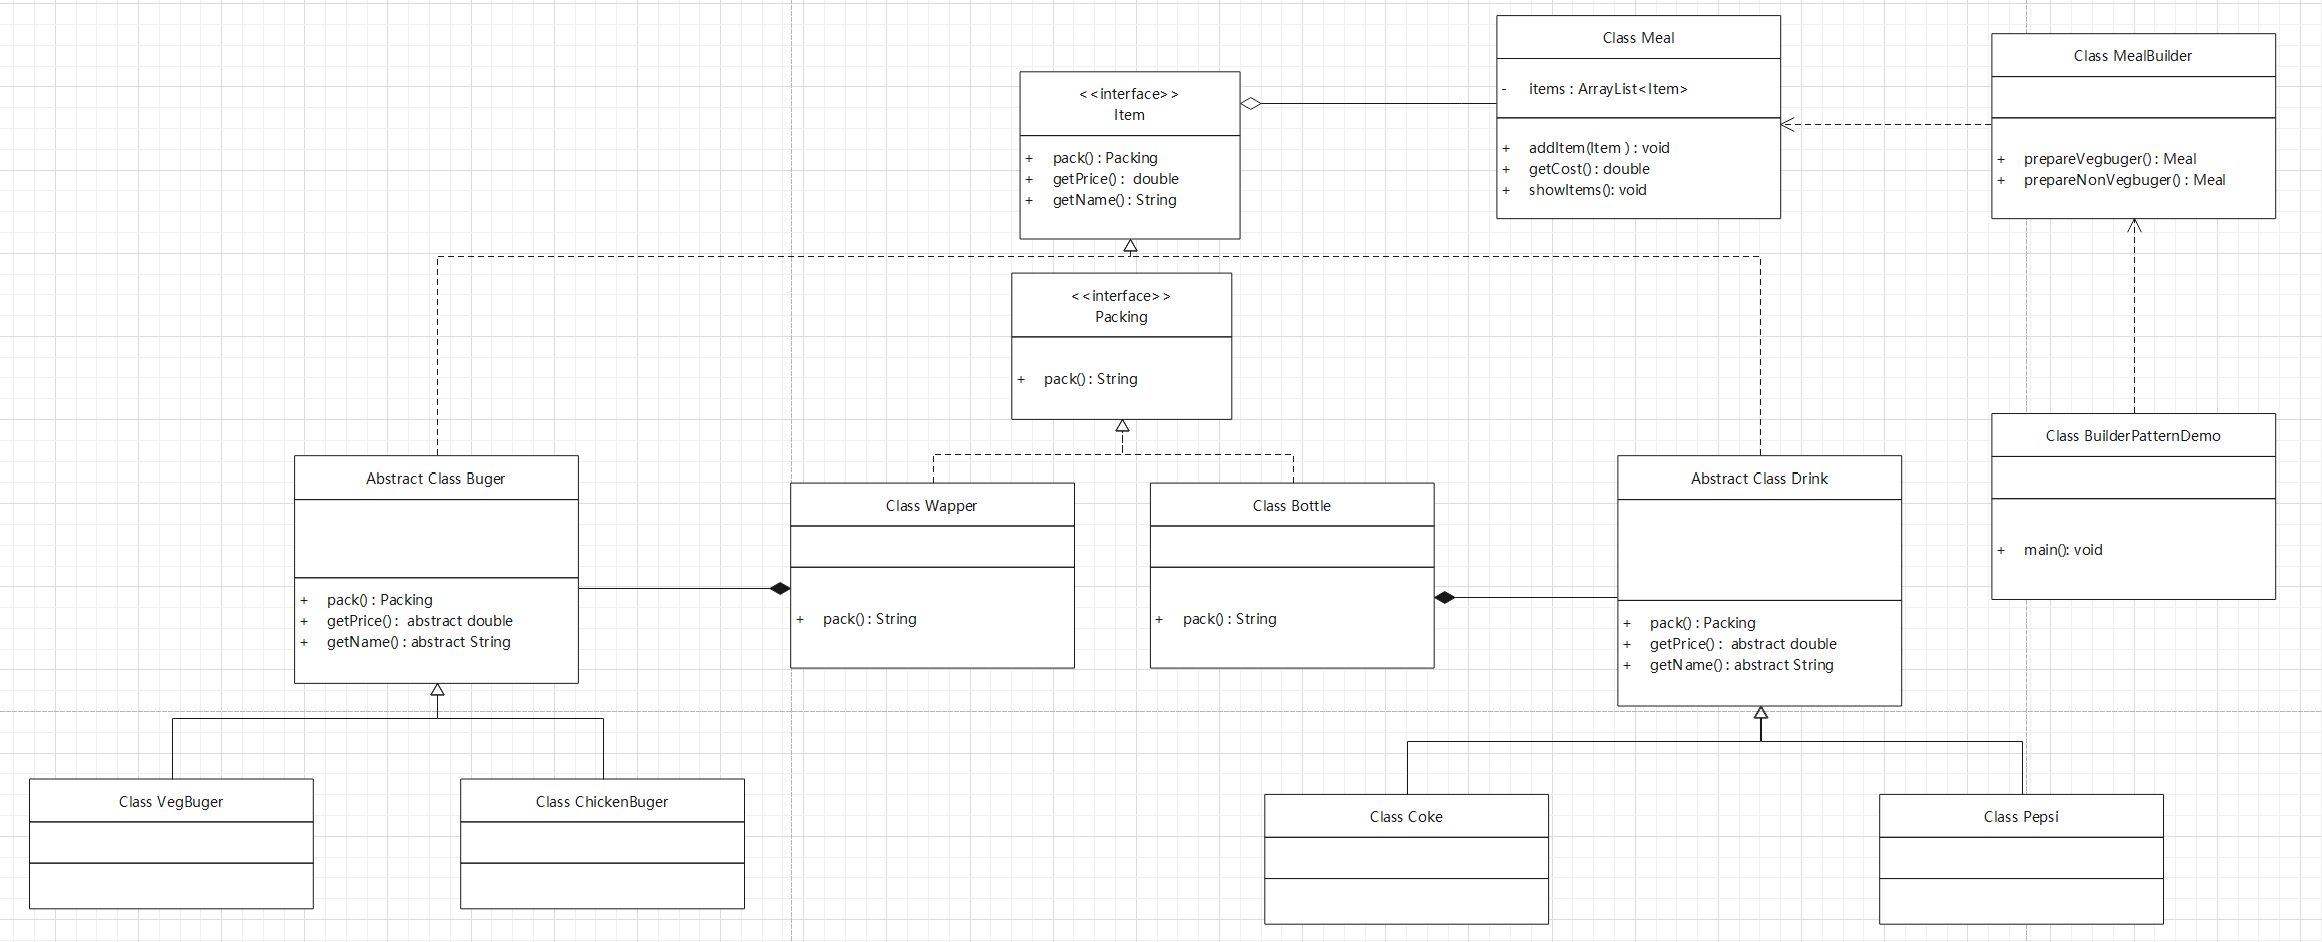
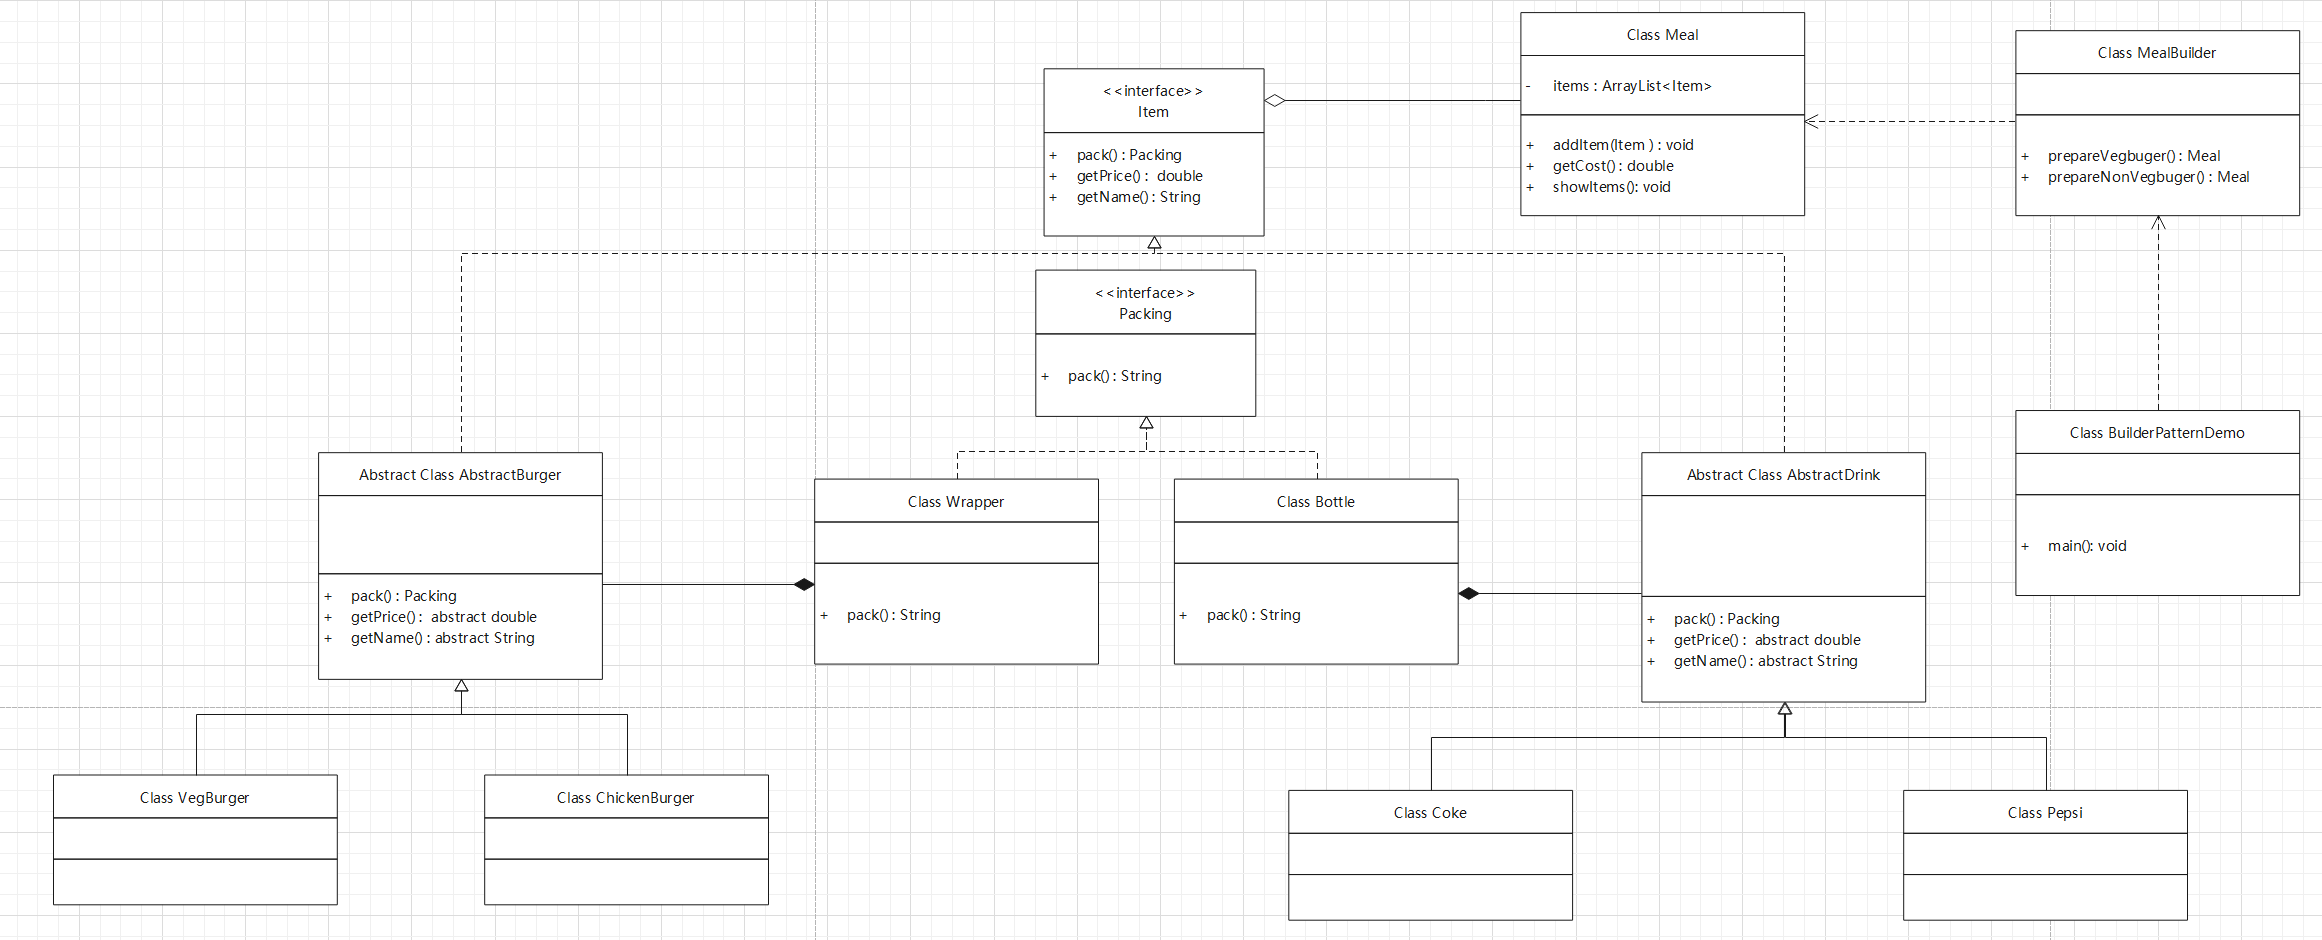
add Builder pattern

diff --git a/com.tucker.java.design.pattern/builder/MealBuilder.java b/com.tucker.java.design.pattern/builder/MealBuilder.java
@@ -1,0 +1,24 @@
+package builder;
+
+/**
+ * @author tonyc
+ */
+public class MealBuilder {
+    public Meal prepareVegBurger() {
+        Meal meal = new Meal();
+        VegBurger vegBurger = new VegBurger();
+        meal.addItems(vegBurger);
+        CokeCola cokeCola = new CokeCola();
+        meal.addItems(cokeCola);
+        return meal;
+    }
+
+    public Meal prepareChickenBurger() {
+        Meal meal = new Meal();
+        ChickenBurger chickenBurger = new ChickenBurger();
+        meal.addItems(chickenBurger);
+        Pepsi pepsi = new Pepsi();
+        meal.addItems(pepsi);
+        return meal;
+    }
+}

diff --git a/com.tucker.java.design.pattern/builder/Meal.java b/com.tucker.java.design.pattern/builder/Meal.java
@@ -1,0 +1,29 @@
+package builder;
+
+import java.util.ArrayList;
+
+/**
+ * @author tonyc
+ */
+public class Meal {
+
+    private ArrayList<Items> items = new ArrayList<Items>();
+
+    public void addItems(Items item) {
+        items.add(item);
+    }
+
+    public void showItems() {
+        for (Items item : items) {
+            System.out.println(item.getName());
+        }
+    }
+
+    public double getCost() {
+        double price = 0;
+        for (Items item : items) {
+            price += item.getPrice();
+        }
+        return price;
+    }
+}

diff --git a/com.tucker.java.design.pattern/builder/BuilderPatternDemo.java b/com.tucker.java.design.pattern/builder/BuilderPatternDemo.java
@@ -1,0 +1,16 @@
+package builder;
+
+/**
+ * @author tonyc
+ */
+public class BuilderPatternDemo {
+    public static void main(String[] args) {
+        MealBuilder builder = new MealBuilder();
+        Meal mealVegBurger = builder.prepareVegBurger();
+        Meal mealChickenBurger = builder.prepareChickenBurger();
+        mealVegBurger.showItems();
+        System.out.println(mealVegBurger.getCost());
+        mealChickenBurger.showItems();
+        System.out.println(mealChickenBurger.getCost());
+    }
+}

diff --git a/com.tucker.java.design.pattern/builder/AbstractBurger.java b/com.tucker.java.design.pattern/builder/AbstractBurger.java
@@ -1,0 +1,23 @@
+package builder;
+
+/**
+ * @author tonyc
+ */
+public abstract  class AbstractBurger implements Items{
+    public Packing pack() {
+        return new Wrapper();
+    }
+    /**
+     *
+     * getName
+     * @return String
+     */
+    public abstract String getName();
+    /**
+     *
+     * getPrice
+     * @return double
+     */
+    public abstract double getPrice();
+
+}

diff --git a/com.tucker.java.design.pattern/builder/VegBurger.java b/com.tucker.java.design.pattern/builder/VegBurger.java
@@ -1,0 +1,22 @@
+package builder;
+
+import jdk.nashorn.internal.objects.annotations.Setter;
+
+/**
+ * @author tonyc
+ */
+public class VegBurger extends AbstractBurger{
+    private String name = "VegBurger";
+
+    private double price = 3.5;
+
+    @Override
+    public String getName() {
+        return name;
+    }
+
+    @Override
+    public double getPrice() {
+        return 3.5;
+    }
+}

diff --git a/com.tucker.java.design.pattern/builder/AbstractDrink.java b/com.tucker.java.design.pattern/builder/AbstractDrink.java
@@ -1,0 +1,22 @@
+package builder;
+
+/**
+ * @author tonyc
+ */
+public abstract class AbstractDrink implements Items{
+    public Packing pack() {
+        return new Bottle();
+    }
+    /**
+     *
+     * getName
+     * @return String
+     */
+    public abstract String getName() ;
+    /**
+     *
+     * getPrice
+     * @return double
+     */
+    public abstract double getPrice() ;
+}

diff --git a/com.tucker.java.design.pattern/builder/Items.java b/com.tucker.java.design.pattern/builder/Items.java
@@ -1,0 +1,25 @@
+package builder;
+
+/**
+ * @author tonyc
+ */
+public interface Items {
+    /**
+     *
+     * pack
+     * @return Packing
+     */
+    public Packing pack();
+    /**
+     *
+     * getName
+     * @return String
+     */
+    public String getName();
+    /**
+     *
+     * getPrice
+     * @return double
+     */
+    public double getPrice();
+}

diff --git a/com.tucker.java.design.pattern/builder/ChickenBurger.java b/com.tucker.java.design.pattern/builder/ChickenBurger.java
@@ -1,0 +1,19 @@
+package builder;
+
+/**
+ * @author tonyc
+ */
+public class ChickenBurger extends AbstractBurger{
+    private String name = "chicken";
+
+    private double price = 2;
+    @Override
+    public String getName() {
+        return name;
+    }
+
+    @Override
+    public double getPrice() {
+        return price;
+    }
+}

diff --git a/com.tucker.java.design.pattern/builder/CokeCola.java b/com.tucker.java.design.pattern/builder/CokeCola.java
@@ -1,0 +1,19 @@
+package builder;
+
+/**
+ * @author tonyc
+ */
+public class CokeCola extends AbstractDrink{
+    private String name = "CokeCola";
+
+    private double price = 1;
+    @Override
+    public String getName() {
+        return name;
+    }
+
+    @Override
+    public double getPrice() {
+        return price;
+    }
+}

diff --git a/com.tucker.java.design.pattern/builder/Pepsi.java b/com.tucker.java.design.pattern/builder/Pepsi.java
@@ -1,0 +1,20 @@
+package builder;
+
+/**
+ * @author tonyc
+ */
+public class Pepsi extends AbstractDrink{
+    private String name = "pepsi";
+
+    private double price = 1.5;
+
+    @Override
+    public String getName() {
+        return name;
+    }
+
+    @Override
+    public double getPrice() {
+        return price;
+    }
+}

diff --git a/com.tucker.java.design.pattern/builder/Packing.java b/com.tucker.java.design.pattern/builder/Packing.java
@@ -1,0 +1,13 @@
+package builder;
+
+/**
+ * @author tonyc
+ */
+public interface Packing {
+    /**
+     *
+     * pack
+     * @return String
+     */
+    public String pack();
+}

diff --git a/com.tucker.java.design.pattern/builder/Wrapper.java b/com.tucker.java.design.pattern/builder/Wrapper.java
@@ -1,0 +1,10 @@
+package builder;
+
+/**
+ * @author tonyc
+ */
+public class Wrapper implements Packing{
+    public String pack() {
+        return "Wrapper";
+    }
+}
